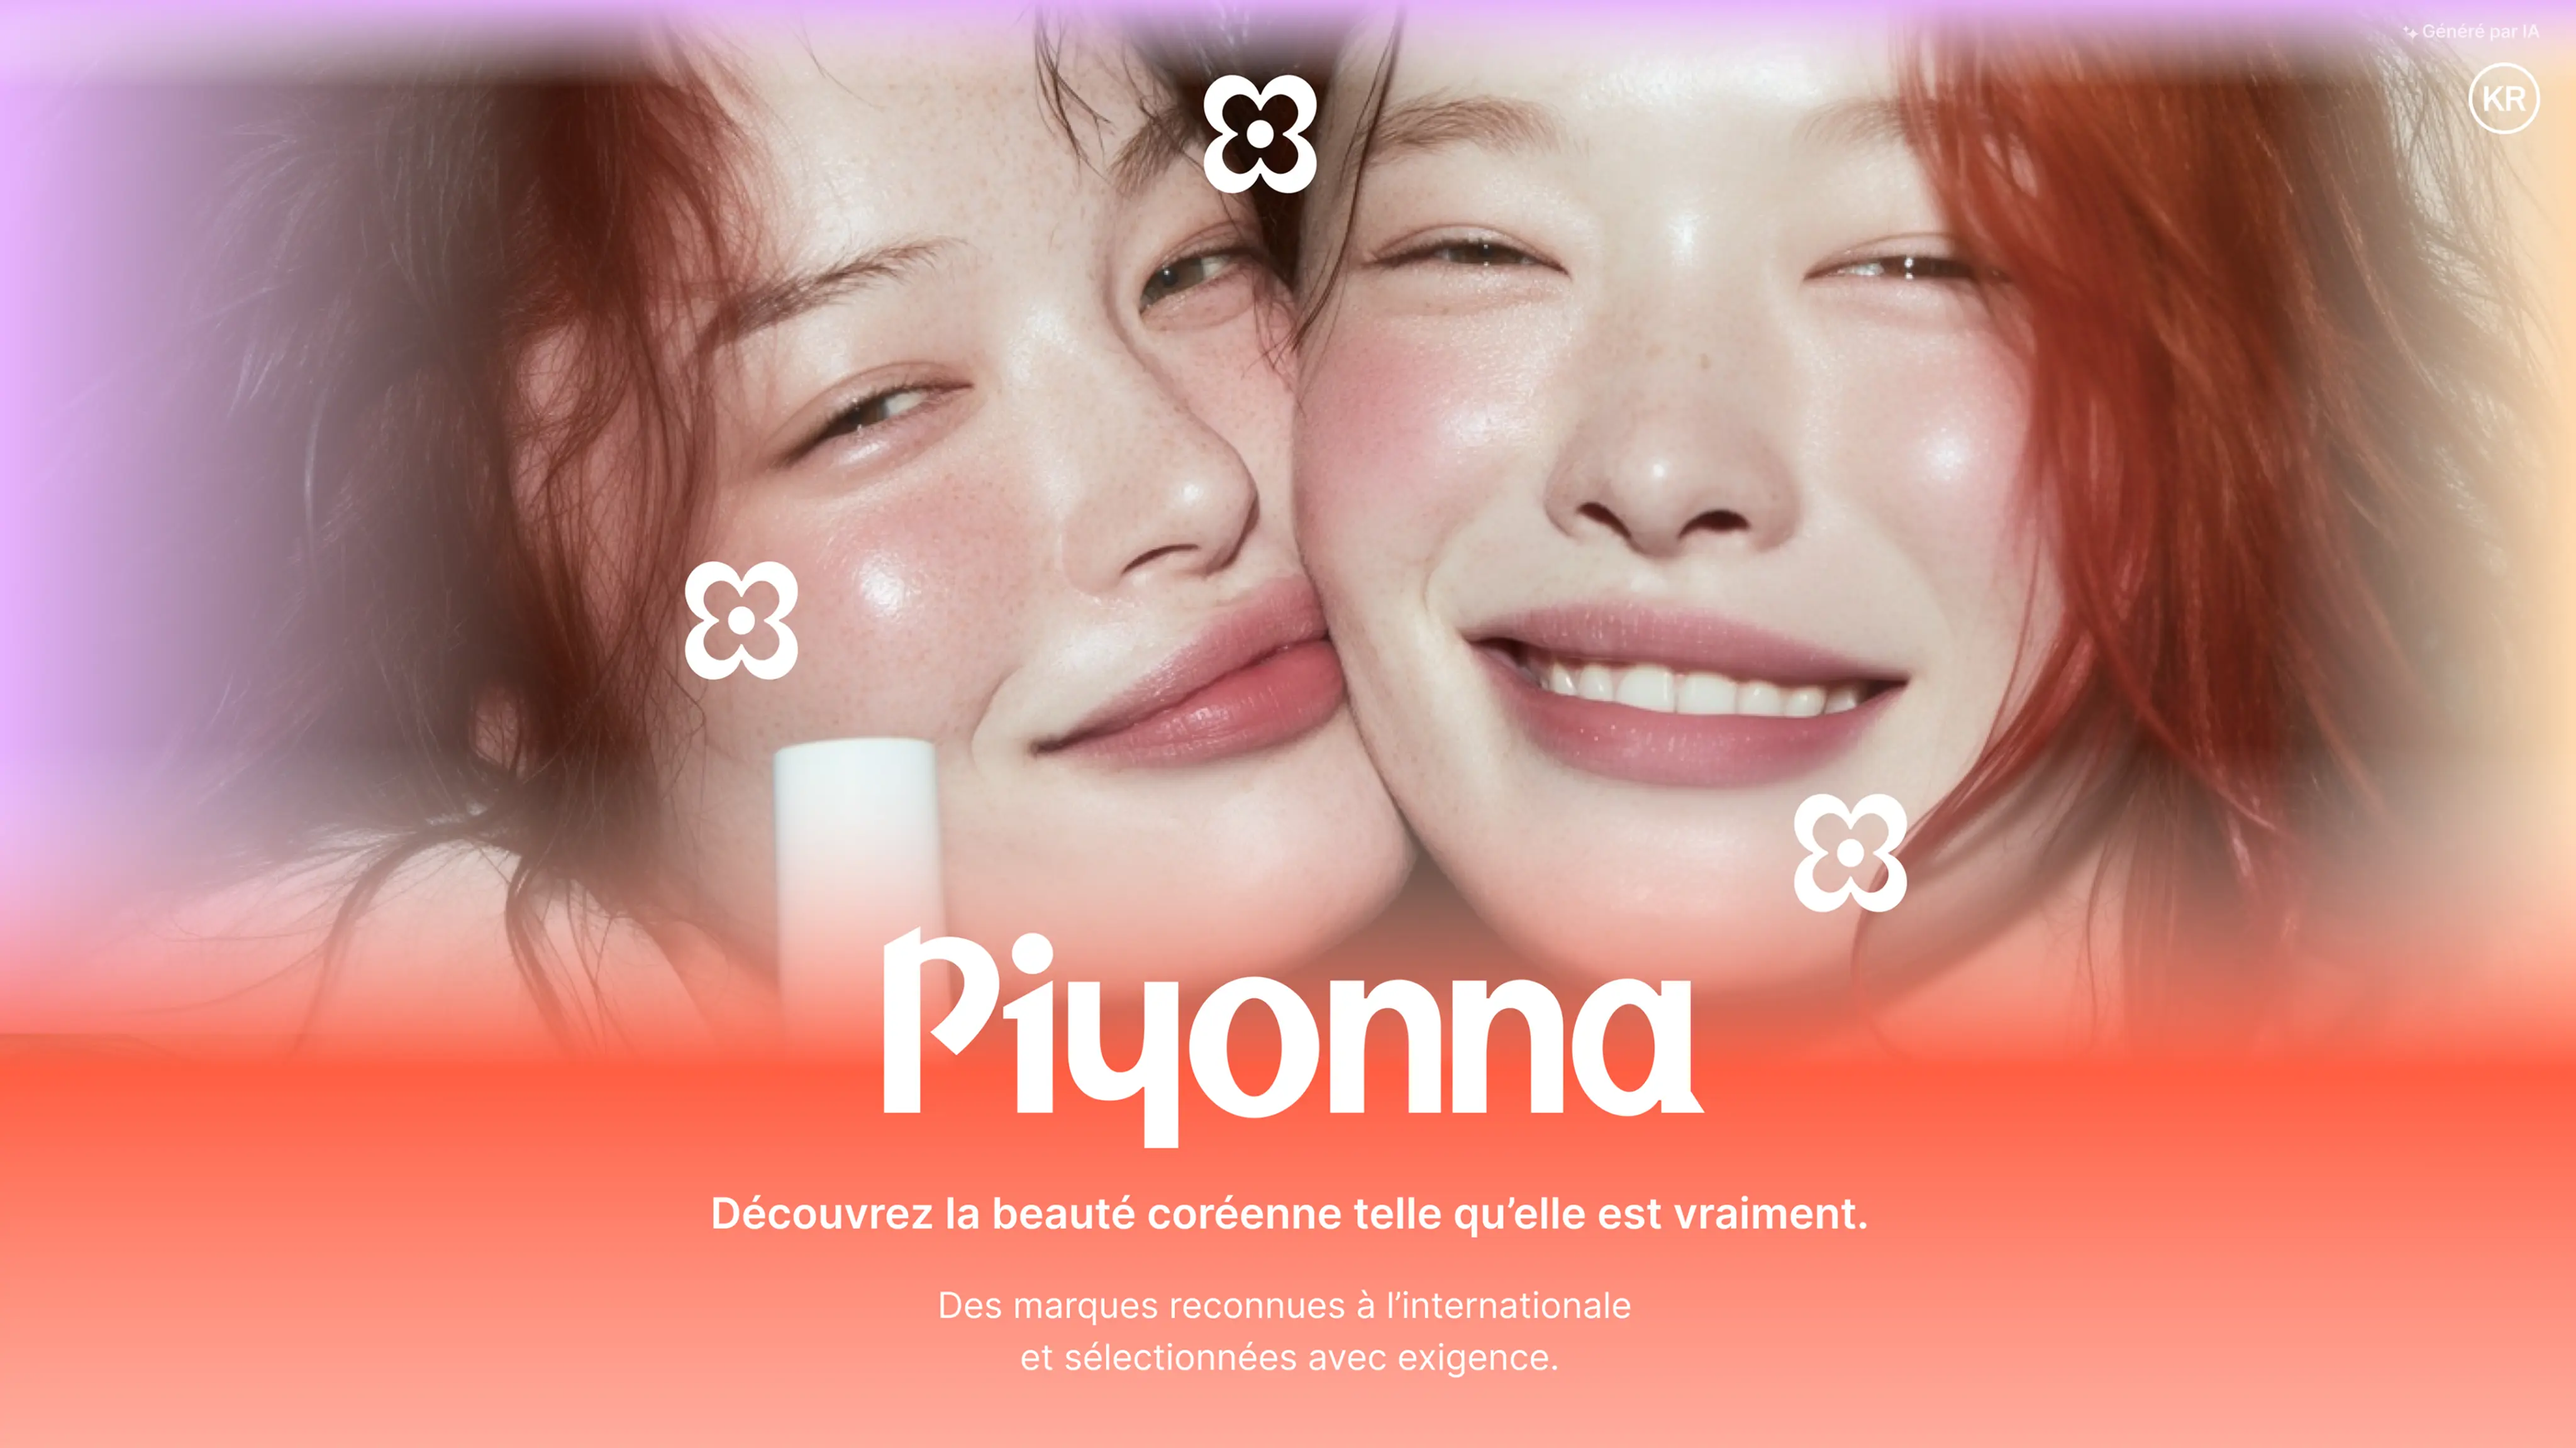
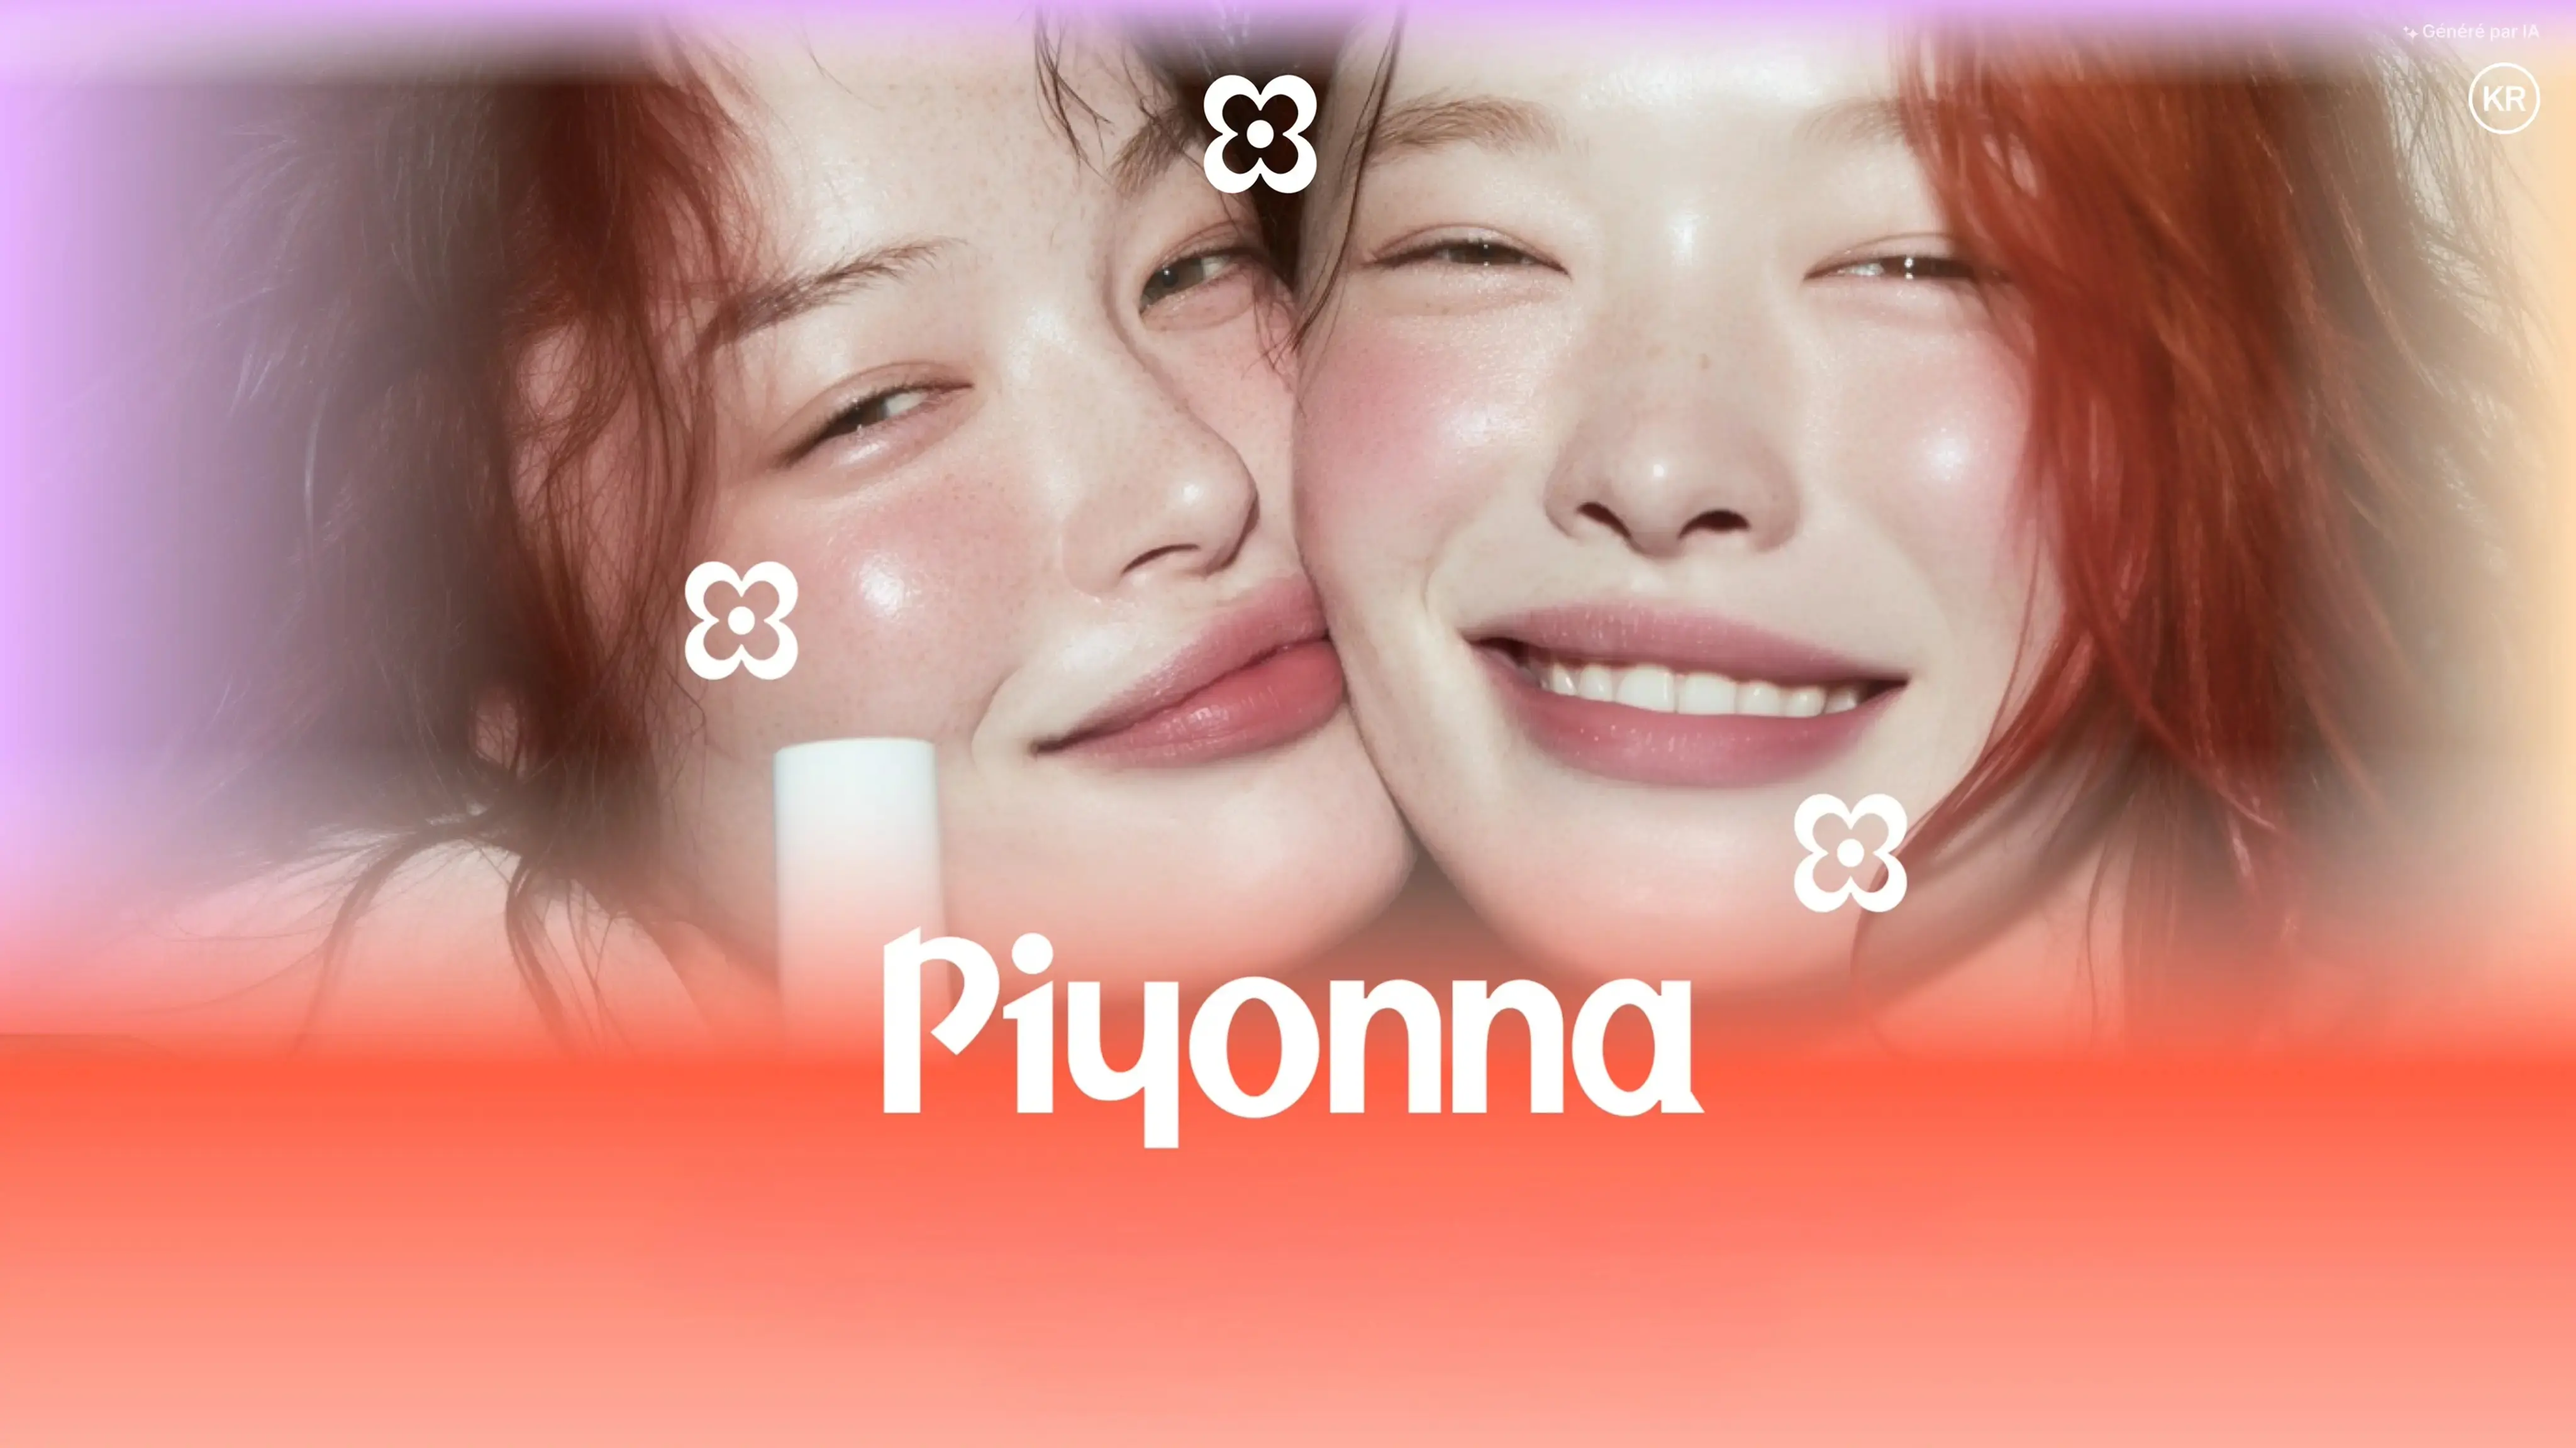
feat: add responsive text overlays on hero and CTA sections
Add HTML text overlays matching Figma design on top of background images.
Uses vw-based sizing with clamp() for proportional scaling across viewports.
Includes Piyonna symbol SVGs and responsive breakpoint at 640px.

Changed region(s): [[0.375, 0.8941, 0.625, 0.9557], [0.2812, 0.8324, 0.7188, 0.8632]]

diff --git a/index.html b/index.html
@@ -58,14 +58,50 @@
   <link rel="stylesheet" href="css/custom.css">
 </head>
 <body class="font-inter bg-white overflow-x-hidden">
-  <picture class="section-1">
-    <source media="(min-width: 640px)" srcset="assets/desktop_1.webp">
-    <img src="assets/mobile_1.webp" alt="" class="w-full">
-  </picture>
-  <picture>
-    <source media="(min-width: 640px)" srcset="assets/desktop_2.webp">
-    <img src="assets/mobile_2.webp" alt="" class="w-full">
-  </picture>
+  <!-- ===== SECTION 1: HERO ===== -->
+  <div class="section-hero relative">
+    <picture class="section-1 block">
+      <source media="(min-width: 640px)" srcset="assets/desktop_1.webp">
+      <img src="assets/mobile_1.webp" alt="" class="w-full block">
+    </picture>
+    <div class="hero-text-overlay">
+      <p class="hero-tagline">
+        Découvrez la beauté coréenne telle qu'elle est vraiment.
+      </p>
+      <p class="hero-subtitle">
+        Des marques reconnues à l'internationale<br>
+        et sélectionnées avec exigence.
+      </p>
+    </div>
+  </div>
+
+  <!-- ===== SECTION 2: CTA ===== -->
+  <div class="section-cta relative">
+    <picture class="block">
+      <source media="(min-width: 640px)" srcset="assets/desktop_2.webp">
+      <img src="assets/mobile_2.webp" alt="" class="w-full block">
+    </picture>
+    <div class="cta-text-overlay">
+      <div class="cta-content">
+        <!-- Piyonna symbol -->
+        <svg class="cta-symbol" viewBox="0 0 64 66" fill="none" xmlns="http://www.w3.org/2000/svg">
+          <path d="M53.375 33.518V32.482C59.817 30.23 64 23.699 64 16.5C64 7.388 56.836 0 48 0C41.014 0 34.67 4.302 32.488 10.957H31.512C29.33 4.3 22.984 0 16 0C7.164 0 0 7.388 0 16.5C0 23.697 4.183 30.228 10.625 32.482V33.518C4.183 35.77 0 42.301 0 49.5C0 58.612 7.164 66 16 66C22.986 66 29.33 61.698 31.512 55.043H32.488C34.67 61.7 41.016 66 48 66C56.836 66 64 58.612 64 49.5C64 42.303 59.817 35.773 53.375 33.518ZM50.538 52.136C49.411 53.299 43.013 58.863 35.922 51.52C34.351 49.896 33.29 48.074 32.582 46.226H31.416C30.71 48.074 29.647 49.894 28.076 51.52C20.985 58.863 14.587 53.299 13.46 52.136C12.2 50.838 6.939 44.376 14.057 37.064C15.628 35.451 17.386 34.357 19.171 33.629V32.41C17.386 31.682 15.628 30.588 14.057 28.975C6.937 21.663 12.332 15.066 13.46 13.903C14.719 12.604 20.985 7.177 28.076 14.519C29.636 16.132 30.694 17.94 31.4 19.774H32.595C33.301 17.94 34.362 16.134 35.92 14.519C43.01 7.177 49.275 12.602 50.536 13.903C51.664 15.066 57.056 21.663 49.939 28.975C48.368 30.588 46.61 31.682 44.825 32.41V33.629C46.61 34.357 48.368 35.451 49.939 37.064C57.059 44.376 51.797 50.836 50.536 52.136H50.538Z" fill="currentColor"/>
+          <path d="M37.37 38.537C40.333 35.478 40.333 30.522 37.37 27.465C34.404 24.407 29.597 24.407 26.633 27.465C23.669 30.524 23.669 35.48 26.633 38.537C29.599 41.593 34.406 41.593 37.37 38.537Z" fill="currentColor"/>
+        </svg>
+        <div class="cta-text-block">
+          <p class="cta-text-light">Préparez-vous</p>
+          <p class="cta-text-bold">à révéler votre</p>
+          <p class="cta-text-bold">beauté intérieure</p>
+        </div>
+        <!-- Piyonna symbol -->
+        <svg class="cta-symbol" viewBox="0 0 64 66" fill="none" xmlns="http://www.w3.org/2000/svg">
+          <path d="M53.375 33.518V32.482C59.817 30.23 64 23.699 64 16.5C64 7.388 56.836 0 48 0C41.014 0 34.67 4.302 32.488 10.957H31.512C29.33 4.3 22.984 0 16 0C7.164 0 0 7.388 0 16.5C0 23.697 4.183 30.228 10.625 32.482V33.518C4.183 35.77 0 42.301 0 49.5C0 58.612 7.164 66 16 66C22.986 66 29.33 61.698 31.512 55.043H32.488C34.67 61.7 41.016 66 48 66C56.836 66 64 58.612 64 49.5C64 42.303 59.817 35.773 53.375 33.518ZM50.538 52.136C49.411 53.299 43.013 58.863 35.922 51.52C34.351 49.896 33.29 48.074 32.582 46.226H31.416C30.71 48.074 29.647 49.894 28.076 51.52C20.985 58.863 14.587 53.299 13.46 52.136C12.2 50.838 6.939 44.376 14.057 37.064C15.628 35.451 17.386 34.357 19.171 33.629V32.41C17.386 31.682 15.628 30.588 14.057 28.975C6.937 21.663 12.332 15.066 13.46 13.903C14.719 12.604 20.985 7.177 28.076 14.519C29.636 16.132 30.694 17.94 31.4 19.774H32.595C33.301 17.94 34.362 16.134 35.92 14.519C43.01 7.177 49.275 12.602 50.536 13.903C51.664 15.066 57.056 21.663 49.939 28.975C48.368 30.588 46.61 31.682 44.825 32.41V33.629C46.61 34.357 48.368 35.451 49.939 37.064C57.059 44.376 51.797 50.836 50.536 52.136H50.538Z" fill="currentColor"/>
+          <path d="M37.37 38.537C40.333 35.478 40.333 30.522 37.37 27.465C34.404 24.407 29.597 24.407 26.633 27.465C23.669 30.524 23.669 35.48 26.633 38.537C29.599 41.593 34.406 41.593 37.37 38.537Z" fill="currentColor"/>
+        </svg>
+      </div>
+      <p class="cta-coming-soon">Disponible prochainement</p>
+    </div>
+  </div>
 
 
   <!-- ===== COUNTDOWN ===== -->

diff --git a/css/custom.css b/css/custom.css
@@ -105,3 +105,138 @@ input[type="checkbox"] {
   -webkit-appearance: none;
   appearance: none;
 }
+
+/* ===== Text Overlay: Hero Section ===== */
+.hero-text-overlay {
+  position: absolute;
+  bottom: 0;
+  left: 0;
+  right: 0;
+  display: flex;
+  flex-direction: column;
+  align-items: center;
+  padding-bottom: 17%;
+  pointer-events: none;
+  gap: 4.3vw;
+}
+
+.hero-tagline {
+  color: white;
+  font-weight: 500;
+  font-size: clamp(18px, 5.6vw, 36px);
+  line-height: 1.3;
+  letter-spacing: -0.02em;
+  text-align: center;
+  margin: 0;
+  max-width: 90%;
+}
+
+.hero-subtitle {
+  color: white;
+  font-weight: 400;
+  font-size: clamp(12px, 3.467vw, 24px);
+  line-height: 1.46;
+  text-align: center;
+  margin: 0;
+}
+
+/* ===== Text Overlay: CTA Section ===== */
+.cta-text-overlay {
+  position: absolute;
+  inset: 0;
+  display: flex;
+  flex-direction: column;
+  align-items: center;
+  pointer-events: none;
+  padding-top: 19%;
+  gap: 6.4vw;
+}
+
+.cta-content {
+  display: flex;
+  flex-direction: column;
+  align-items: center;
+  gap: 6.4vw;
+}
+
+.cta-symbol {
+  width: 6.667vw;
+  height: auto;
+  color: #8e1f0b;
+}
+
+.cta-text-block {
+  display: flex;
+  flex-direction: column;
+  gap: 2.1vw;
+  text-align: center;
+  color: #8e1f0b;
+}
+
+.cta-text-light {
+  font-weight: 300;
+  font-size: clamp(28px, 9.067vw, 50px);
+  line-height: 1.2;
+  letter-spacing: -0.02em;
+  margin: 0;
+}
+
+.cta-text-bold {
+  font-weight: 700;
+  font-size: clamp(28px, 9.067vw, 50px);
+  line-height: 1.2;
+  letter-spacing: -0.05em;
+  margin: 0;
+}
+
+.cta-coming-soon {
+  color: #a33927;
+  font-style: italic;
+  font-size: clamp(16px, 5.333vw, 28px);
+  letter-spacing: -0.02em;
+  text-align: center;
+  margin: 0;
+}
+
+/* ===== Desktop Overrides (640px+) ===== */
+@media (min-width: 640px) {
+  .hero-text-overlay {
+    padding-bottom: 2.5%;
+    gap: 1.5vw;
+  }
+
+  .hero-tagline {
+    font-size: clamp(14px, 1.667vw, 28px);
+    max-width: 61%;
+  }
+
+  .hero-subtitle {
+    font-size: clamp(12px, 1.389vw, 24px);
+  }
+
+  .cta-text-overlay {
+    padding-top: 2.4%;
+    gap: 2.4vw;
+  }
+
+  .cta-content {
+    gap: 1.667vw;
+  }
+
+  .cta-text-block {
+    gap: 1.1vw;
+  }
+
+  .cta-symbol {
+    width: 1.736vw;
+  }
+
+  .cta-text-light,
+  .cta-text-bold {
+    font-size: clamp(24px, 2.917vw, 48px);
+  }
+
+  .cta-coming-soon {
+    font-size: clamp(14px, 1.667vw, 28px);
+  }
+}
